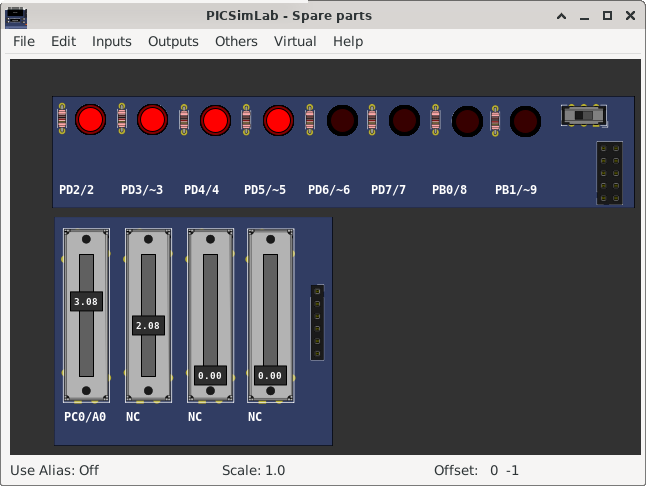
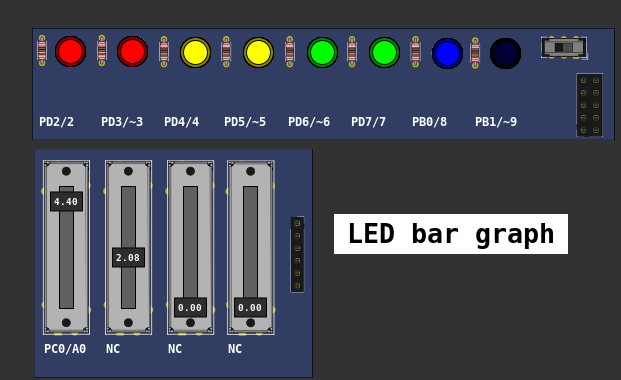
examples udpated

diff --git a/docs/parts_Text_Box.html b/docs/parts_Text_Box.html
@@ -1,6 +1,6 @@
 <!DOCTYPE html>
 <html><head>
-<title>PICSimLab Examples Part IO PCF8574</title>
+<title>PICSimLab Examples Part Text Box</title>
 <meta charset='utf-8' />
 <meta content='width=device-width,initial-scale=1' name='viewport' />
 <link href='picsimlab.css' rel='stylesheet' type='text/css' />
@@ -24,11 +24,6 @@
 <span class='chapterToc'><a href="parts_IO_74xx595.html">IO 74xx595</a></span>
 <span class='chapterToc'><a href="parts_IO_MCP23S17.html">IO MCP23S17</a></span>
 <span class='chapterToc'><a href="parts_IO_PCF8574.html">IO PCF8574</a></span>
-<span class='sectionToc'><a href="#Arduino_Uno_atmega328p">Arduino_Uno</a></span>
-<span class='subsectionToc'><a href="#Arduino_Uno_atmega328p_AnalogButtons">AnalogButtons</a></span>
-<span class='subsectionToc'><a href="#Arduino_Uno_atmega328p_Serial_LCD">Serial_LCD</a></span>
-<span class='sectionToc'><a href="#Franzininho_DIY_attiny85">Franzininho_DIY</a></span>
-<span class='subsectionToc'><a href="#Franzininho_DIY_attiny85_Tiny85_Temp_LCD_RTC">Tiny85_Temp_LCD_RTC</a></span>
 <span class='chapterToc'><a href="parts_IO_UART.html">IO UART</a></span>
 <span class='chapterToc'><a href="parts_IO_Virtual_Term.html">IO Virtual Term</a></span>
 <span class='chapterToc'><a href="parts_Jumper_Wires.html">Jumper Wires</a></span>
@@ -59,6 +54,8 @@
 <span class='chapterToc'><a href="parts_SHT3X_(Temp._Hum.).html">SHT3X (Temp. Hum.)</a></span>
 <span class='chapterToc'><a href="parts_Switches.html">Switches</a></span>
 <span class='chapterToc'><a href="parts_Text_Box.html">Text Box</a></span>
+<span class='sectionToc'><a href="#Arduino_Uno_atmega328p">Arduino_Uno</a></span>
+<span class='subsectionToc'><a href="#Arduino_Uno_atmega328p_display_bargraph">display_bargraph</a></span>
 <span class='chapterToc'><a href="parts_Temperature_System.html">Temperature System</a></span>
 <span class='chapterToc'><a href="parts_Ultrasonic_HC-SR04.html">Ultrasonic HC-SR04</a></span>
 <span class='chapterToc'><a href="parts_VCD_Dump.html">VCD Dump</a></span>
@@ -67,58 +64,32 @@
 </nav><main class='main-content'>
 <a name="Arduino_Uno_atmega328p"></a>
 <hr><table style="width:100%" border="0" bgcolor='#efefef'>
-<tr><td colspan=2 width="100%"><a name="Arduino_Uno_atmega328p_AnalogButtons"></a><small>[Arduino_Uno/<a href='#Arduino_Uno_atmega328p'>atmega328p</a>/AnalogButtons]</small>  <h1>  Analog Buttons </h1>
+<tr><td colspan=2 width="100%"><a name="Arduino_Uno_atmega328p_display_bargraph"></a><small>[Arduino_Uno/<a href='#Arduino_Uno_atmega328p'>atmega328p</a>/display_bargraph]</small>  <h1>  LED bar graph</h1>
 <pre>
-Arduino analog input push buttons.
 
+  Turns on a series of LEDs based on the value of an analog sensor.
+  This is a simple way to make a bar graph display. Though this graph uses 10
+  LEDs, you can use any number by changing the LED count and the pins in the
+  array.
+
+  This method can be used to control any series of digital outputs that depends
+  on an analog input.
+
+  The circuit:
+  - LEDs from pins 2 through 9 to ground
+
+  created 4 Sep 2010
+  by Tom Igoe
+
+  This example code is in the public domain.
+
+  http://www.arduino.cc/en/Tutorial/BarGraph
 </pre>
 
 
-<a href="https://github.com/lcgamboa/picsimlab_examples/blob/master/docs/board_Arduino_Uno/atmega328p/AnalogButtons/src/AnalogButtons.ino" target="_blank">AnalogButtons.ino</a><br><br></td></tr><tr><td width="80%" align=center><a target="blank_" href="board_Arduino_Uno/atmega328p/AnalogButtons/AnalogButtons.png"><img src='board_Arduino_Uno/atmega328p/AnalogButtons/AnalogButtons.png' width=60%></a></td>
-<td width="20%" align=left ><a href="pzw/board_Arduino_Uno/atmega328p/AnalogButtons.pzw" target="_blank" >Download (pzw)</a>
-</td></tr></table>
-<a name="Arduino_Uno_atmega328p"></a>
-<hr><table style="width:100%" border="0" bgcolor='#efefef'>
-<tr><td colspan=2 width="100%"><a name="Arduino_Uno_atmega328p_Serial_LCD"></a><small>[Arduino_Uno/<a href='#Arduino_Uno_atmega328p'>atmega328p</a>/Serial_LCD]</small>  <h1> Serial LCD LiquidCrystal_I2C</h1>
-<pre>
-LiquidCrystal_I2C CustomChars example
-//YWROBOT
-//Compatible with the Arduino IDE 1.0
-//Library version:1.1
-</pre>
-
-
-<a href="https://github.com/lcgamboa/picsimlab_examples/blob/master/docs/board_Arduino_Uno/atmega328p/Serial_LCD/src/CustomChars.ino" target="_blank">CustomChars.ino</a><br><br></td></tr><tr><td width="80%" align=center><a target="blank_" href="board_Arduino_Uno/atmega328p/Serial_LCD/Serial_LCD.png"><img src='board_Arduino_Uno/atmega328p/Serial_LCD/Serial_LCD.png' width=60%></a></td>
-<td width="20%" align=left ><a href="pzw/board_Arduino_Uno/atmega328p/Serial_LCD.pzw" target="_blank" >Download (pzw)</a>
-<br><br><a href="../js/picsimlab.html?../picsimlab_examples/pzw/board_Arduino_Uno/atmega328p/Serial_LCD.pzw" target="_blank" >View Online</a><br><br>
-</td></tr></table>
-<a name="Franzininho_DIY_attiny85"></a>
-<hr><table style="width:100%" border="0" bgcolor='#efefef'>
-<tr><td colspan=2 width="100%"><a name="Franzininho_DIY_attiny85_Tiny85_Temp_LCD_RTC"></a><small>[Franzininho_DIY/<a href='#Franzininho_DIY_attiny85'>attiny85</a>/Tiny85_Temp_LCD_RTC]</small>  <h1> Example Tiny85 Temp LCD RTC of TinyWireM library</h1>
-<br>
-<br>
-<pre>
-ATtiny85 as an I2C Master   Ex3        BroHogan                         1/22/11
-I2C master reading DS1621 temperature sensor & DS1307 RTC. Display to I2C GPIO LED.
-SETUP:
-ATtiny Pin 1 = (RESET) N/U                      ATtiny Pin 2 = (D3) N/U
-ATtiny Pin 3 = (D4) to LED1                     ATtiny Pin 4 = GND
-ATtiny Pin 5 = SDA on all devices               ATtiny Pin 6 = (D1) to LED2
-ATtiny Pin 7 = SCK on all devices               ATtiny Pin 8 = VCC (2.7-5.5V)
-NOTE! - It's very important to use pullups on the SDA & SCL lines!
-DS1621 wired per data sheet. This ex assumes A0-A2 are set LOW for an addeess of 0x48
-DS1307 wired per data sheet. This ex assumes A0-A2 are set LOW for an addeess of 0x68
-PCA8574A GPIO was used wired per instructions in "info" folder in the LiquidCrystal_I2C lib.
-This ex assumes A0-A2 are set HIGH for an addeess of 0x3F
-LiquidCrystal_I2C lib was modified for ATtiny - on Playground with TinyWireM lib.
-TinyWireM USAGE & CREDITS: - see TinyWireM.h
-</pre>
-<br>
-<br>
-
-Link to source code: <a href="https://github.com/adafruit/TinyWireM/blob/master/examples/Tiny85_Temp_LCD_RTC/Tiny85_Temp_LCD_RTC.pde" target="_blank">Tiny85_Temp_LCD_RTC.pde</a><br><br></td></tr><tr><td width="80%" align=center><a target="blank_" href="board_Franzininho_DIY/attiny85/Tiny85_Temp_LCD_RTC/Tiny85_Temp_LCD_RTC.png"><img src='board_Franzininho_DIY/attiny85/Tiny85_Temp_LCD_RTC/Tiny85_Temp_LCD_RTC.png' width=60%></a></td>
-<td width="20%" align=left ><a href="pzw/board_Franzininho_DIY/attiny85/Tiny85_Temp_LCD_RTC.pzw" target="_blank" >Download (pzw)</a>
-<br><br><a href="../js/picsimlab.html?../picsimlab_examples/pzw/board_Franzininho_DIY/attiny85/Tiny85_Temp_LCD_RTC.pzw" target="_blank" >View Online</a><br><br>
+<a href="https://github.com/lcgamboa/picsimlab_examples/blob/master/docs/board_Arduino_Uno/atmega328p/display_bargraph/src/barGraph.ino" target="_blank">barGraph.ino</a><br><br></td></tr><tr><td width="80%" align=center><a target="blank_" href="board_Arduino_Uno/atmega328p/display_bargraph/display_bargraph.png"><img src='board_Arduino_Uno/atmega328p/display_bargraph/display_bargraph.png' width=60%></a></td>
+<td width="20%" align=left ><a href="pzw/board_Arduino_Uno/atmega328p/display_bargraph.pzw" target="_blank" >Download (pzw)</a>
+<br><br><a href="../js/picsimlab.html?../picsimlab_examples/pzw/board_Arduino_Uno/atmega328p/display_bargraph.pzw" target="_blank" >View Online</a><br><br>
 </td></tr></table>
 </main>
 <script src='picsimlab.js' type='text/javascript'></script>

diff --git a/docs/Parts.html b/docs/Parts.html
@@ -56,6 +56,7 @@
 <span class='sectionToc'><a href="#Step_Motor">Step Motor</a></span>
 <span class='sectionToc'><a href="#SHT3X_(Temp._Hum.)">SHT3X (Temp. Hum.)</a></span>
 <span class='sectionToc'><a href="#Switches">Switches</a></span>
+<span class='sectionToc'><a href="#Text_Box">Text Box</a></span>
 <span class='sectionToc'><a href="#Temperature_System">Temperature System</a></span>
 <span class='sectionToc'><a href="#Ultrasonic_HC-SR04">Ultrasonic HC-SR04</a></span>
 <span class='sectionToc'><a href="#VCD_Dump">VCD Dump</a></span>
@@ -304,6 +305,8 @@
 <a href="board_Arduino_Uno.html#board_Arduino_Uno_atmega328p_firmata">Arduino_Uno | atmega328p | firmata </a><br>
 <a href="board_Arduino_Uno.html#board_Arduino_Uno_atmega328p_wires">Arduino_Uno | atmega328p | wires </a><br>
 <a href="board_Breadboard.html#board_Breadboard_PIC18F4550_PID">Breadboard | PIC18F4550 | PID </a><br>
+<hr><br><h2><a name="Text_Box"></a><a href="parts_Text_Box.html">Text Box</a></h2>
+<a href="board_Arduino_Uno.html#board_Arduino_Uno_atmega328p_display_bargraph">Arduino_Uno | atmega328p | display_bargraph </a><br>
 <hr><br><h2><a name="Temperature_System"></a><a href="parts_Temperature_System.html">Temperature System</a></h2>
 <a href="board_Breadboard.html#board_Breadboard_PIC16F777_test_b0">Breadboard | PIC16F777 | test_b0 </a><br>
 <a href="board_Breadboard.html#board_Breadboard_PIC16F877A_test_b0">Breadboard | PIC16F877A | test_b0 </a><br>

diff --git a/docs/Parts_exp.html b/docs/Parts_exp.html
@@ -55,6 +55,7 @@
 <span class='sectionToc'><a href="#Step_Motor">Step Motor</a></span>
 <span class='sectionToc'><a href="#SHT3X_(Temp._Hum.)">SHT3X (Temp. Hum.)</a></span>
 <span class='sectionToc'><a href="#Switches">Switches</a></span>
+<span class='sectionToc'><a href="#Text_Box">Text Box</a></span>
 <span class='sectionToc'><a href="#Temperature_System">Temperature System</a></span>
 <span class='sectionToc'><a href="#Ultrasonic_HC-SR04">Ultrasonic HC-SR04</a></span>
 <span class='sectionToc'><a href="#VCD_Dump">VCD Dump</a></span>
@@ -117,6 +118,7 @@
 <a href="board_Blue_Pill.html#board_Blue_Pill_stm32f103c8t6_GPIO">Blue_Pill | stm32f103c8t6 | GPIO </a><br>
 <a href="board_Remote_TCP.html#board_Remote_TCP_Ripes_LCDSW">Remote_TCP | Ripes | LCDSW </a><br>
 <a href="board_Remote_TCP.html#board_Remote_TCP_Ripes_LED_SW">Remote_TCP | Ripes | LED_SW </a><br>
+<hr><br><h2><a name="Text_Box"></a>Text Box</h2>
 <hr><br><h2><a name="Temperature_System"></a>Temperature System</h2>
 <hr><br><h2><a name="Ultrasonic_HC-SR04"></a>Ultrasonic HC-SR04</h2>
 <hr><br><h2><a name="VCD_Dump"></a>VCD Dump</h2>

diff --git a/docs/parts_Step_Motor.html b/docs/parts_Step_Motor.html
@@ -57,6 +57,7 @@
 <span class='subsectionToc'><a href="#PICGenios_PIC18F4550_Parts_Demo">Parts_Demo</a></span>
 <span class='chapterToc'><a href="parts_SHT3X_(Temp._Hum.).html">SHT3X (Temp. Hum.)</a></span>
 <span class='chapterToc'><a href="parts_Switches.html">Switches</a></span>
+<span class='chapterToc'><a href="parts_Text_Box.html">Text Box</a></span>
 <span class='chapterToc'><a href="parts_Temperature_System.html">Temperature System</a></span>
 <span class='chapterToc'><a href="parts_Ultrasonic_HC-SR04.html">Ultrasonic HC-SR04</a></span>
 <span class='chapterToc'><a href="parts_VCD_Dump.html">VCD Dump</a></span>

diff --git a/docs/parts_Ultrasonic_HC-SR04.html b/docs/parts_Ultrasonic_HC-SR04.html
@@ -53,6 +53,7 @@
 <span class='chapterToc'><a href="parts_Step_Motor.html">Step Motor</a></span>
 <span class='chapterToc'><a href="parts_SHT3X_(Temp._Hum.).html">SHT3X (Temp. Hum.)</a></span>
 <span class='chapterToc'><a href="parts_Switches.html">Switches</a></span>
+<span class='chapterToc'><a href="parts_Text_Box.html">Text Box</a></span>
 <span class='chapterToc'><a href="parts_Temperature_System.html">Temperature System</a></span>
 <span class='chapterToc'><a href="parts_Ultrasonic_HC-SR04.html">Ultrasonic HC-SR04</a></span>
 <span class='sectionToc'><a href="#Arduino_Uno_atmega328p">Arduino_Uno</a></span>

diff --git a/docs/parts_7_Segments_Display.html b/docs/parts_7_Segments_Display.html
@@ -66,6 +66,7 @@
 <span class='chapterToc'><a href="parts_Step_Motor.html">Step Motor</a></span>
 <span class='chapterToc'><a href="parts_SHT3X_(Temp._Hum.).html">SHT3X (Temp. Hum.)</a></span>
 <span class='chapterToc'><a href="parts_Switches.html">Switches</a></span>
+<span class='chapterToc'><a href="parts_Text_Box.html">Text Box</a></span>
 <span class='chapterToc'><a href="parts_Temperature_System.html">Temperature System</a></span>
 <span class='chapterToc'><a href="parts_Ultrasonic_HC-SR04.html">Ultrasonic HC-SR04</a></span>
 <span class='chapterToc'><a href="parts_VCD_Dump.html">VCD Dump</a></span>

diff --git a/docs/parts_7_Segments_Display_(Decoder).html b/docs/parts_7_Segments_Display_(Decoder).html
@@ -58,6 +58,7 @@
 <span class='chapterToc'><a href="parts_Step_Motor.html">Step Motor</a></span>
 <span class='chapterToc'><a href="parts_SHT3X_(Temp._Hum.).html">SHT3X (Temp. Hum.)</a></span>
 <span class='chapterToc'><a href="parts_Switches.html">Switches</a></span>
+<span class='chapterToc'><a href="parts_Text_Box.html">Text Box</a></span>
 <span class='chapterToc'><a href="parts_Temperature_System.html">Temperature System</a></span>
 <span class='chapterToc'><a href="parts_Ultrasonic_HC-SR04.html">Ultrasonic HC-SR04</a></span>
 <span class='chapterToc'><a href="parts_VCD_Dump.html">VCD Dump</a></span>

diff --git a/docs/parts_Buzzer.html b/docs/parts_Buzzer.html
@@ -59,6 +59,7 @@
 <span class='chapterToc'><a href="parts_Step_Motor.html">Step Motor</a></span>
 <span class='chapterToc'><a href="parts_SHT3X_(Temp._Hum.).html">SHT3X (Temp. Hum.)</a></span>
 <span class='chapterToc'><a href="parts_Switches.html">Switches</a></span>
+<span class='chapterToc'><a href="parts_Text_Box.html">Text Box</a></span>
 <span class='chapterToc'><a href="parts_Temperature_System.html">Temperature System</a></span>
 <span class='chapterToc'><a href="parts_Ultrasonic_HC-SR04.html">Ultrasonic HC-SR04</a></span>
 <span class='chapterToc'><a href="parts_VCD_Dump.html">VCD Dump</a></span>

diff --git a/docs/parts_D._Transfer_Function.html b/docs/parts_D._Transfer_Function.html
@@ -55,6 +55,7 @@
 <span class='chapterToc'><a href="parts_Step_Motor.html">Step Motor</a></span>
 <span class='chapterToc'><a href="parts_SHT3X_(Temp._Hum.).html">SHT3X (Temp. Hum.)</a></span>
 <span class='chapterToc'><a href="parts_Switches.html">Switches</a></span>
+<span class='chapterToc'><a href="parts_Text_Box.html">Text Box</a></span>
 <span class='chapterToc'><a href="parts_Temperature_System.html">Temperature System</a></span>
 <span class='chapterToc'><a href="parts_Ultrasonic_HC-SR04.html">Ultrasonic HC-SR04</a></span>
 <span class='chapterToc'><a href="parts_VCD_Dump.html">VCD Dump</a></span>

diff --git a/docs/parts_DC_Motor.html b/docs/parts_DC_Motor.html
@@ -55,6 +55,7 @@
 <span class='chapterToc'><a href="parts_Step_Motor.html">Step Motor</a></span>
 <span class='chapterToc'><a href="parts_SHT3X_(Temp._Hum.).html">SHT3X (Temp. Hum.)</a></span>
 <span class='chapterToc'><a href="parts_Switches.html">Switches</a></span>
+<span class='chapterToc'><a href="parts_Text_Box.html">Text Box</a></span>
 <span class='chapterToc'><a href="parts_Temperature_System.html">Temperature System</a></span>
 <span class='chapterToc'><a href="parts_Ultrasonic_HC-SR04.html">Ultrasonic HC-SR04</a></span>
 <span class='chapterToc'><a href="parts_VCD_Dump.html">VCD Dump</a></span>

diff --git a/docs/parts_DS1621_(Temperature_I2C).html b/docs/parts_DS1621_(Temperature_I2C).html
@@ -55,6 +55,7 @@
 <span class='chapterToc'><a href="parts_Step_Motor.html">Step Motor</a></span>
 <span class='chapterToc'><a href="parts_SHT3X_(Temp._Hum.).html">SHT3X (Temp. Hum.)</a></span>
 <span class='chapterToc'><a href="parts_Switches.html">Switches</a></span>
+<span class='chapterToc'><a href="parts_Text_Box.html">Text Box</a></span>
 <span class='chapterToc'><a href="parts_Temperature_System.html">Temperature System</a></span>
 <span class='chapterToc'><a href="parts_Ultrasonic_HC-SR04.html">Ultrasonic HC-SR04</a></span>
 <span class='chapterToc'><a href="parts_VCD_Dump.html">VCD Dump</a></span>

diff --git a/docs/parts_ETH_w5500.html b/docs/parts_ETH_w5500.html
@@ -58,6 +58,7 @@
 <span class='chapterToc'><a href="parts_Step_Motor.html">Step Motor</a></span>
 <span class='chapterToc'><a href="parts_SHT3X_(Temp._Hum.).html">SHT3X (Temp. Hum.)</a></span>
 <span class='chapterToc'><a href="parts_Switches.html">Switches</a></span>
+<span class='chapterToc'><a href="parts_Text_Box.html">Text Box</a></span>
 <span class='chapterToc'><a href="parts_Temperature_System.html">Temperature System</a></span>
 <span class='chapterToc'><a href="parts_Ultrasonic_HC-SR04.html">Ultrasonic HC-SR04</a></span>
 <span class='chapterToc'><a href="parts_VCD_Dump.html">VCD Dump</a></span>
